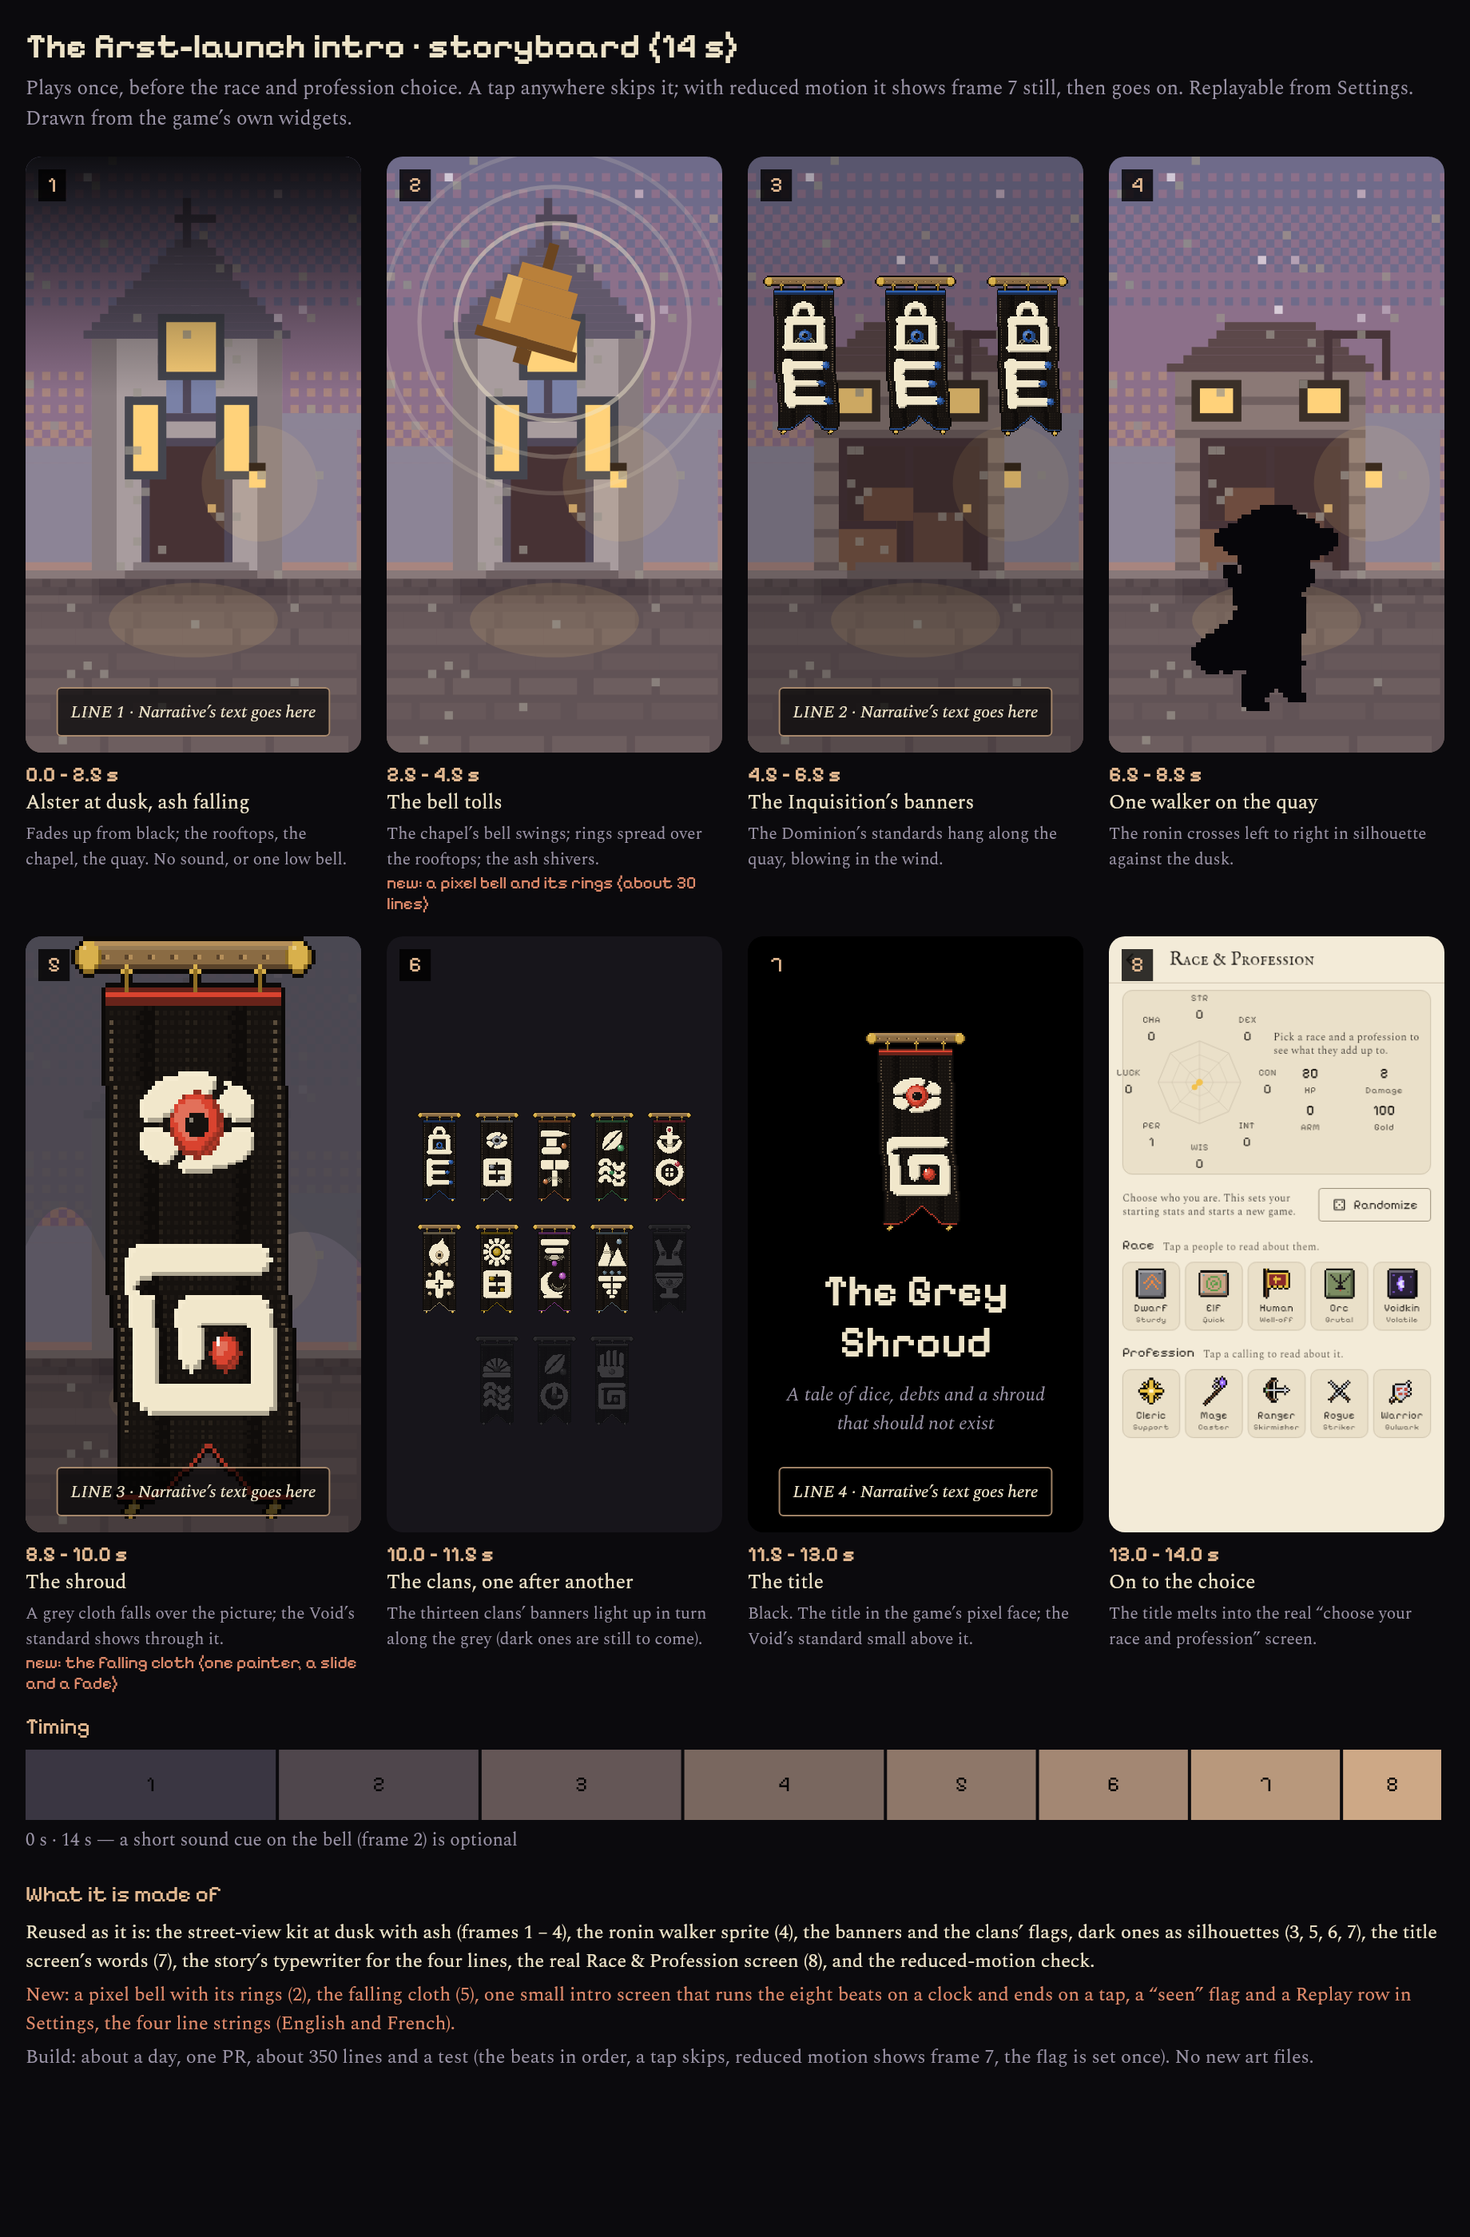
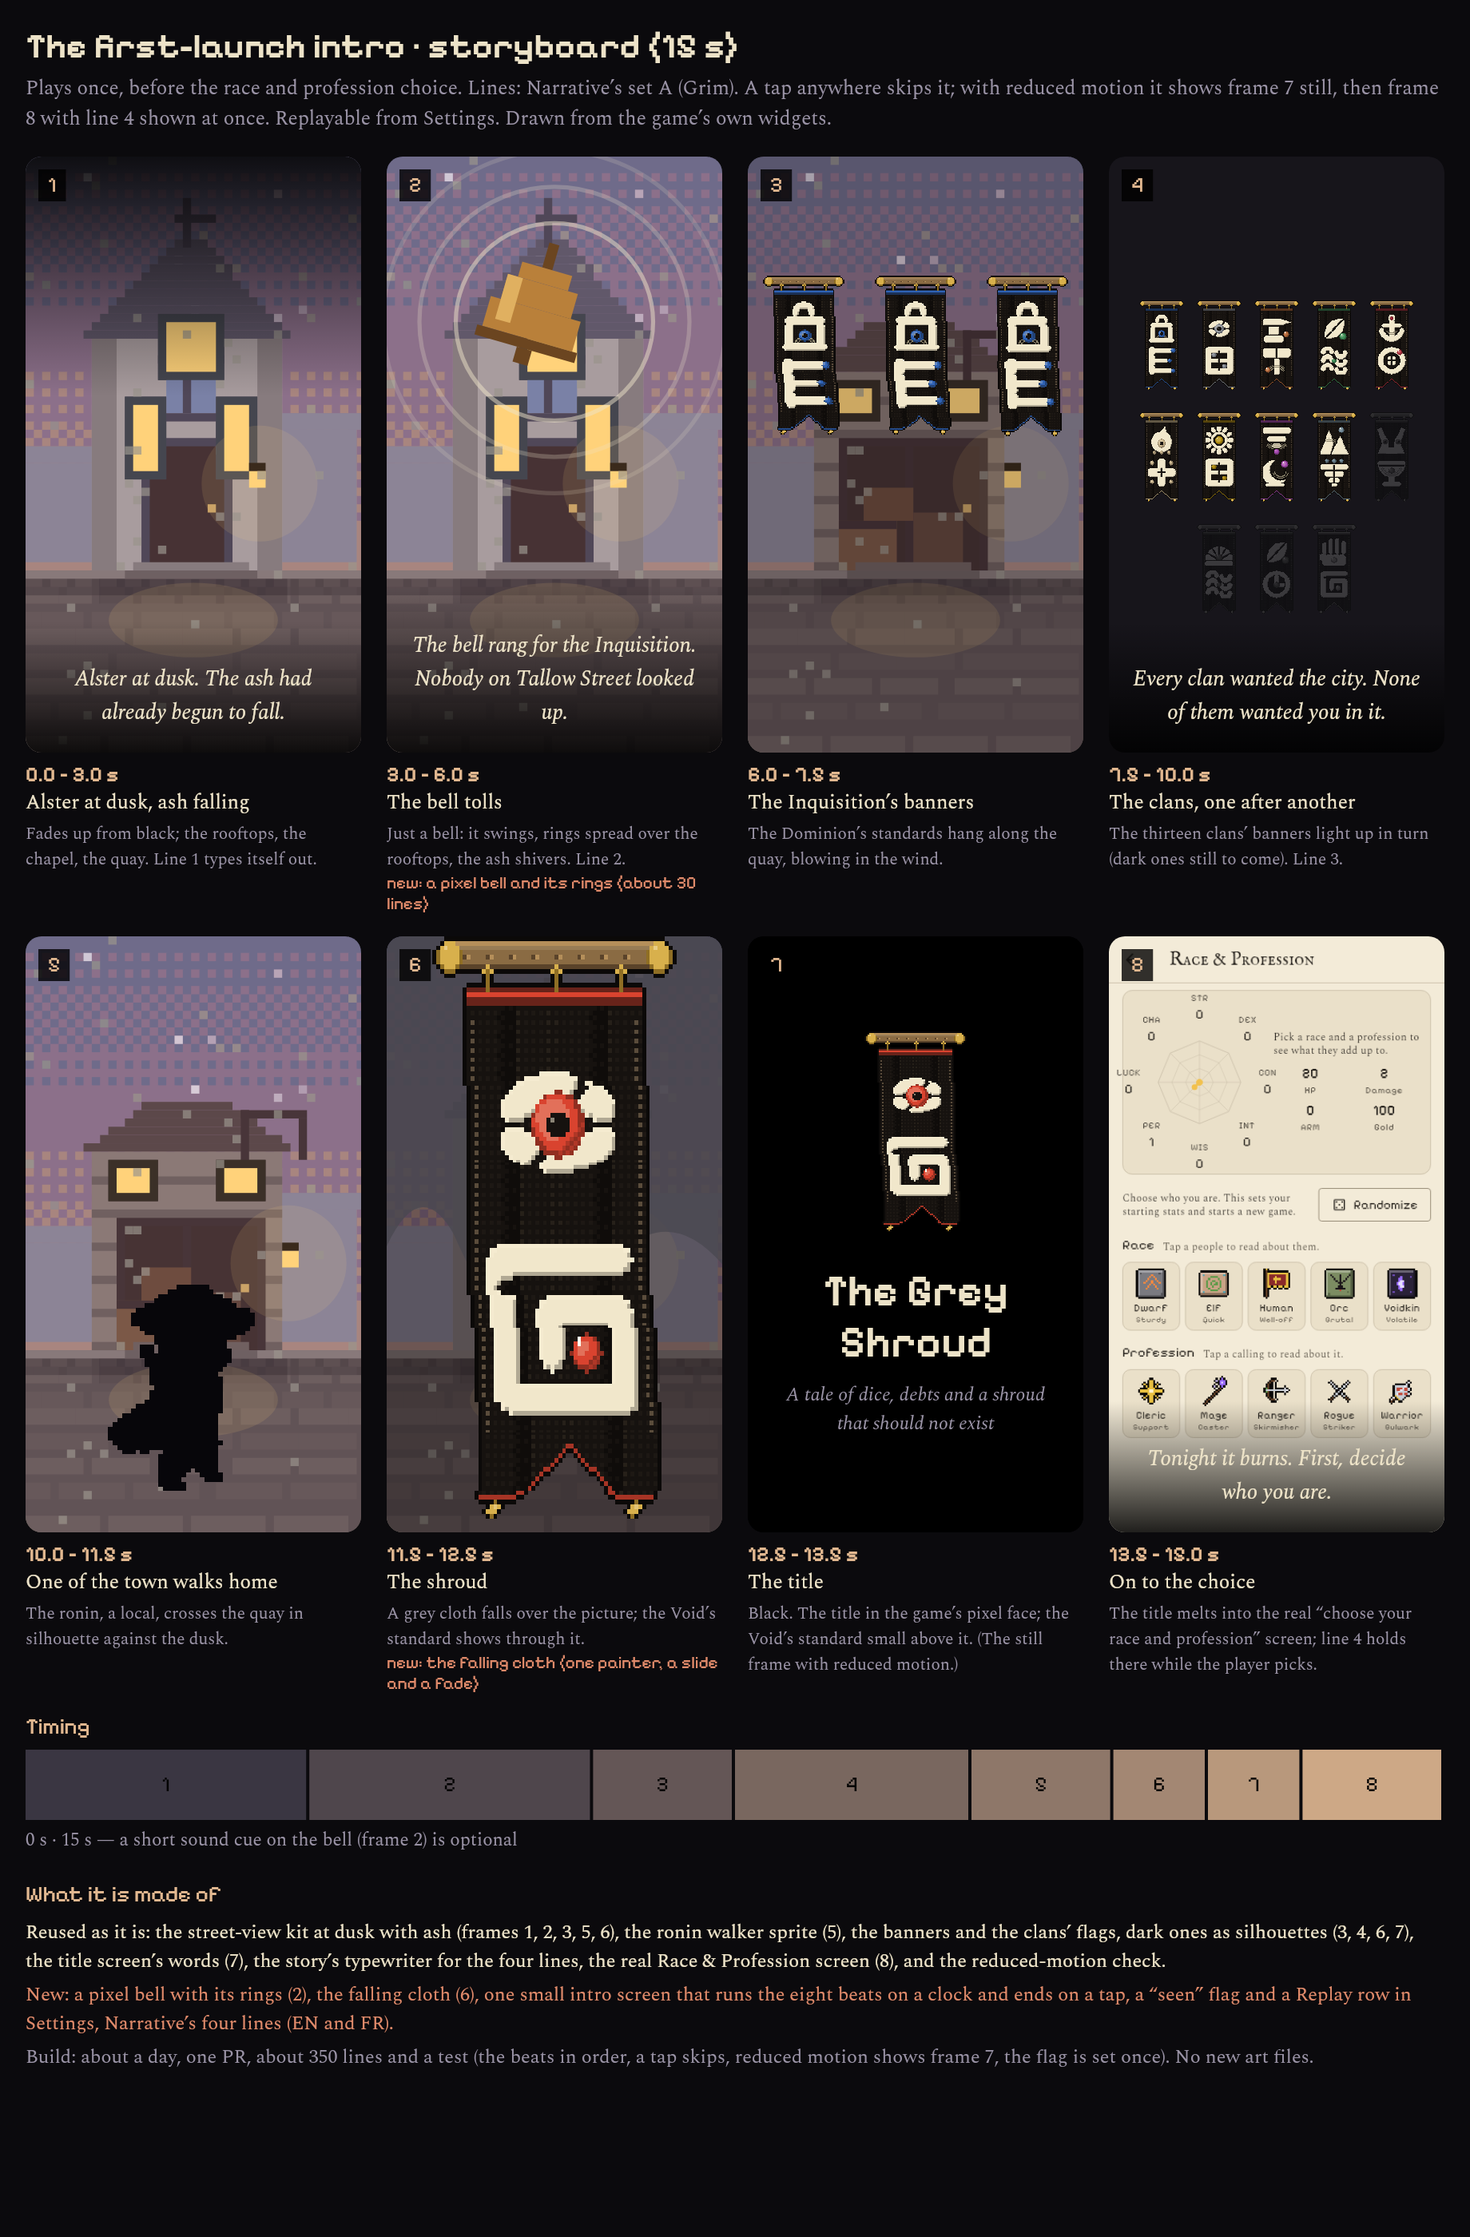
Intro storyboard: Narrative's set A lines, 15 s, retimed
Claude-Session: https://claude.ai/code/session_01Y8cU3zPWWudNpnZGCrkKEc

diff --git a/test/ux_intro_mock_test.dart b/test/ux_intro_mock_test.dart
@@ -83,28 +83,36 @@ TextStyle _serif(double size,
     TextStyle(
         fontFamily: 'Spectral', fontSize: size, color: color, fontStyle: style);
 
-/// The place for one of Narrative's lines: where it types itself out, over
-/// the picture, in the story's own text.
+/// One of Narrative's lines (set A, "Grim", English): where it types
+/// itself out over the picture, in the story's own text.
 class _LineSlot extends StatelessWidget {
-  const _LineSlot(this.n);
+  const _LineSlot(this.n, this.text);
   final int n;
+  final String text;
   @override
   Widget build(BuildContext context) => Align(
         alignment: Alignment.bottomCenter,
         child: Container(
-          margin: const EdgeInsets.all(10),
-          padding: const EdgeInsets.symmetric(horizontal: 8, vertical: 6),
-          decoration: BoxDecoration(
-            color: const Color(0xAA000000),
-            border: Border.all(color: _gold.withValues(alpha: 0.7)),
-            borderRadius: BorderRadius.circular(3),
-          ),
-          child: Text('LINE $n · Narrative’s text goes here',
+          width: double.infinity,
+          padding: const EdgeInsets.fromLTRB(14, 26, 14, 14),
+          decoration: const BoxDecoration(
+              gradient: LinearGradient(
+                  begin: Alignment.topCenter,
+                  end: Alignment.bottomCenter,
+                  colors: [Color(0x00000000), Color(0xDD000000)])),
+          child: Text(text,
               textAlign: TextAlign.center,
-              style: _serif(11, style: FontStyle.italic)),
+              style: _serif(13.5, style: FontStyle.italic)),
         ),
       );
 }
+
+const _lines = {
+  1: 'Alster at dusk. The ash had already begun to fall.',
+  2: 'The bell rang for the Inquisition. Nobody on Tallow Street looked up.',
+  3: 'Every clan wanted the city. None of them wanted you in it.',
+  4: 'Tonight it burns. First, decide who you are.',
+};
 
 class _Bell extends CustomPainter {
   const _Bell(this.swing);
@@ -221,7 +229,7 @@ Widget _frame(int n, _Beat b) => SizedBox(
             borderRadius: BorderRadius.circular(10),
             child: Stack(fit: StackFit.expand, children: [
               ColoredBox(color: Colors.black, child: b.scene),
-              if (b.line != null) _LineSlot(b.line!),
+              if (b.line != null) _LineSlot(b.line!, _lines[b.line!]!),
               Positioned(
                   left: 8,
                   top: 8,
@@ -321,9 +329,9 @@ void main() {
 
     final beats = <_Beat>[
       _Beat(
-          '0.0 – 2.5 s',
+          '0.0 – 3.0 s',
           'Alster at dusk, ash falling',
-          'Fades up from black; the rooftops, the chapel, the quay. No sound, or one low bell.',
+          'Fades up from black; the rooftops, the chapel, the quay. Line 1 types itself out.',
           Stack(fit: StackFit.expand, children: [
             _street('temple', 'The Inquisition chapel'),
             Align(
@@ -338,9 +346,9 @@ void main() {
           ]),
           line: 1),
       _Beat(
-          '2.5 – 4.5 s',
+          '3.0 – 6.0 s',
           'The bell tolls',
-          'The chapel’s bell swings; rings spread over the rooftops; the ash shivers.',
+          'Just a bell: it swings, rings spread over the rooftops, the ash shivers. Line 2.',
           Stack(fit: StackFit.expand, children: [
             _street('temple', 'The Inquisition chapel'),
             Align(
@@ -350,9 +358,10 @@ void main() {
                     height: 130,
                     child: CustomPaint(painter: const _Bell(0.28)))),
           ]),
+          line: 2,
           isNew: 'a pixel bell and its rings (about 30 lines)'),
       _Beat(
-          '4.5 – 6.5 s',
+          '6.0 – 7.5 s',
           'The Inquisition’s banners',
           'The Dominion’s standards hang along the quay, blowing in the wind.',
           Stack(fit: StackFit.expand, children: [
@@ -369,18 +378,33 @@ void main() {
                             scale: 2,
                             phase: i * 0.31),
                     ]))),
-          ]),
-          line: 2),
+          ])),
       _Beat(
-          '6.5 – 8.5 s',
-          'One walker on the quay',
-          'The ronin crosses left to right in silhouette against the dusk.',
+          '7.5 – 10.0 s',
+          'The clans, one after another',
+          'The thirteen clans’ banners light up in turn (dark ones still to come). Line 3.',
+          Container(
+              color: const Color(0xFF17151B),
+              padding: const EdgeInsets.fromLTRB(18, 90, 18, 120),
+              child: Wrap(
+                  alignment: WrapAlignment.center,
+                  spacing: 8,
+                  runSpacing: 14,
+                  children: [
+                    for (var i = 0; i < clanIds.length; i++)
+                      ClanFlag(factionId: clanIds[i], height: 56, found: i < 9),
+                  ])),
+          line: 3),
+      _Beat(
+          '10.0 – 11.5 s',
+          'One of the town walks home',
+          'The ronin, a local, crosses the quay in silhouette against the dusk.',
           Stack(fit: StackFit.expand, children: [
             _street('warehouse', 'The quay'),
             fill(CustomPaint(painter: const _Walker(18, 0.3))),
           ])),
       _Beat(
-          '8.5 – 10.0 s',
+          '11.5 – 12.5 s',
           'The shroud',
           'A grey cloth falls over the picture; the Void’s standard shows through it.',
           Stack(fit: StackFit.expand, children: [
@@ -390,27 +414,11 @@ void main() {
                 alignment: const Alignment(0, 0.05),
                 child: WindBanner(id: titleBannerId, scale: 3)),
           ]),
-          line: 3,
           isNew: 'the falling cloth (one painter, a slide and a fade)'),
       _Beat(
-          '10.0 – 11.5 s',
-          'The clans, one after another',
-          'The thirteen clans’ banners light up in turn along the grey (dark ones are still to come).',
-          Container(
-              color: const Color(0xFF17151B),
-              padding: const EdgeInsets.fromLTRB(18, 110, 18, 120),
-              child: Wrap(
-                  alignment: WrapAlignment.center,
-                  spacing: 8,
-                  runSpacing: 14,
-                  children: [
-                    for (var i = 0; i < clanIds.length; i++)
-                      ClanFlag(factionId: clanIds[i], height: 56, found: i < 9),
-                  ]))),
-      _Beat(
-          '11.5 – 13.0 s',
+          '12.5 – 13.5 s',
           'The title',
-          'Black. The title in the game’s pixel face; the Void’s standard small above it.',
+          'Black. The title in the game’s pixel face; the Void’s standard small above it. (The still frame with reduced motion.)',
           Container(
               color: Colors.black,
               child: Column(
@@ -429,22 +437,22 @@ void main() {
                             textAlign: TextAlign.center,
                             style: _serif(12,
                                 color: _ash, style: FontStyle.italic))),
-                  ])),
-          line: 4),
+                  ]))),
       _Beat(
-          '13.0 – 14.0 s',
+          '13.5 – 15.0 s',
           'On to the choice',
-          'The title melts into the real “choose your race and profession” screen.',
+          'The title melts into the real “choose your race and profession” screen; line 4 holds there while the player picks.',
           lastImage == null
               ? const ColoredBox(color: Color(0xFFF3EAD7))
               : RawImage(
                   image: lastImage,
                   fit: BoxFit.cover,
-                  alignment: Alignment.topCenter)),
+                  alignment: Alignment.topCenter),
+          line: 4),
     ];
 
     // The timeline under the frames: each beat to scale, the skip marker.
-    const spans = [2.5, 2.0, 2.0, 2.0, 1.5, 1.5, 1.5, 1.0];
+    const spans = [3.0, 3.0, 1.5, 2.5, 1.5, 1.0, 1.0, 1.5];
     final total = spans.fold<double>(0, (a, b) => a + b);
     const boardW = 4 * (_frameW + 16) + 16;
     final key = GlobalKey();
@@ -467,11 +475,11 @@ void main() {
             padding: const EdgeInsets.all(16),
             child:
                 Column(crossAxisAlignment: CrossAxisAlignment.start, children: [
-              Text('The first-launch intro · storyboard (14 s)',
+              Text('The first-launch intro · storyboard (15 s)',
                   style: _px(22, w: FontWeight.w600)),
               const SizedBox(height: 4),
               Text(
-                  'Plays once, before the race and profession choice. A tap anywhere skips it; with reduced motion it shows frame 7 still, then goes on. Replayable from Settings. Drawn from the game’s own widgets.',
+                  'Plays once, before the race and profession choice. Lines: Narrative\u2019s set A (Grim). A tap anywhere skips it; with reduced motion it shows frame 7 still, then frame 8 with line 4 shown at once. Replayable from Settings. Drawn from the game’s own widgets.',
                   style: _serif(12.5, color: _ash)),
               const SizedBox(height: 14),
               Wrap(spacing: 16, runSpacing: 14, children: [
@@ -505,9 +513,9 @@ void main() {
               Text('What it is made of', style: _px(14, color: _gold)),
               const SizedBox(height: 6),
               chip(
-                  'Reused as it is: the street-view kit at dusk with ash (frames 1 \u2013 4), the ronin walker sprite (4), the banners and the clans\u2019 flags, dark ones as silhouettes (3, 5, 6, 7), the title screen\u2019s words (7), the story\u2019s typewriter for the four lines, the real Race & Profession screen (8), and the reduced-motion check.'),
+                  'Reused as it is: the street-view kit at dusk with ash (frames 1, 2, 3, 5, 6), the ronin walker sprite (5), the banners and the clans\u2019 flags, dark ones as silhouettes (3, 4, 6, 7), the title screen\u2019s words (7), the story\u2019s typewriter for the four lines, the real Race & Profession screen (8), and the reduced-motion check.'),
               chip(
-                  'New: a pixel bell with its rings (2), the falling cloth (5), one small intro screen that runs the eight beats on a clock and ends on a tap, a \u201cseen\u201d flag and a Replay row in Settings, the four line strings (English and French).',
+                  'New: a pixel bell with its rings (2), the falling cloth (6), one small intro screen that runs the eight beats on a clock and ends on a tap, a \u201cseen\u201d flag and a Replay row in Settings, Narrative\u2019s four lines (EN and FR).',
                   c: const Color(0xFFE08A6A)),
               chip(
                   'Build: about a day, one PR, about 350 lines and a test (the beats in order, a tap skips, reduced motion shows frame 7, the flag is set once). No new art files.',

diff --git a/docs/proposals/intro-animation.md b/docs/proposals/intro-animation.md
@@ -5,24 +5,32 @@ Drawn by `test/ux_intro_mock_test.dart` from the game's own widgets; frame 8
 is the real Race & Profession screen.
 
 ## Brief
-Plays once, before the race and profession choice, 14 s. A tap anywhere
-skips to frame 8. Reduced motion shows frame 7 (the title) still, then goes on.
-No sound needed; one low bell on frame 2 is optional. Replayable from Settings.
+Plays once, before the race and profession choice, 15 s. A tap anywhere skips
+to frame 8. Reduced motion shows frame 7 (the title) still, then frame 8 with
+line 4 shown at once. No sound needed; one low bell on frame 2 is optional.
+Replayable from Settings.
 
-## Beats
-| # | Time | What |
-|---|---|---|
-| 1 | 0.0 to 2.5 s | Alster at dusk, ash falling; fades up from black. Line 1. |
-| 2 | 2.5 to 4.5 s | The chapel's bell tolls; rings spread; the ash shivers. |
-| 3 | 4.5 to 6.5 s | The Inquisition's banners along the quay. Line 2. |
-| 4 | 6.5 to 8.5 s | The ronin crosses the quay in silhouette. |
-| 5 | 8.5 to 10.0 s | A grey cloth falls; the Void's standard shows through. Line 3. |
-| 6 | 10.0 to 11.5 s | The thirteen clans' banners light up in turn. |
-| 7 | 11.5 to 13.0 s | The title in the pixel face, the Void's standard above. Line 4. |
-| 8 | 13.0 to 14.0 s | Melts into the Race & Profession screen. |
+## Beats (the user chose Narrative's set A, Grim)
+| # | Time | What | Line |
+|---|---|---|---|
+| 1 | 0.0 to 3.0 s | Alster at dusk, ash falling; fades up from black | 1 |
+| 2 | 3.0 to 6.0 s | Just a bell: it swings, rings spread over the rooftops | 2 |
+| 3 | 6.0 to 7.5 s | The Inquisition's banners along the quay | |
+| 4 | 7.5 to 10.0 s | The thirteen clans' banners light up in turn | 3 |
+| 5 | 10.0 to 11.5 s | The ronin, a local, crosses the quay in silhouette | |
+| 6 | 11.5 to 12.5 s | A grey cloth falls; the Void's standard shows through | |
+| 7 | 12.5 to 13.5 s | The title in the pixel face | |
+| 8 | 13.5 to 15.0 s | Melts into the Race & Profession screen; line 4 holds | 4 |
 
-The four lines are Narrative's: each sits in a slot at the bottom of its frame
-and types itself out (`StoryText`). The mock shows a placeholder box.
+Lines (EN; FR in `docs/proposals/intro-lines.md` on `claude/narrative-intro`):
+1. Alster at dusk. The ash had already begun to fall.
+2. The bell rang for the Inquisition. Nobody on Tallow Street looked up.
+3. Every clan wanted the city. None of them wanted you in it.
+4. Tonight it burns. First, decide who you are.
+
+Each line sits over the bottom of its frame and types itself out (`StoryText`).
+The hero is a local, so nothing shows a stranger arriving, and the bell is just
+a bell (not a named tower).
 
 ## Reused as it is
 - `StreetViewScene` (street-view kit) at dusk with ash: frames 1 to 5 backdrops
@@ -39,7 +47,7 @@ and types itself out (`StoryText`). The mock shows a placeholder box.
   jump to the end
 - a `intro_seen` flag (shared preferences), set when it ends or is skipped, and
   a "Replay the intro" row in Settings
-- four line strings (EN and FR) and the Settings label, next to `menu_title`
+- the four line strings (EN and FR, Narrative's) and the Settings label, next to `menu_title`
 
 ## Where it plugs in
 `MainMenuScreen._newGame`: when `intro_seen` is not set, push `IntroScreen`
@@ -56,4 +64,3 @@ and `app_strings.dart` (UX owns the widget, Narrative owns the four lines).
 ## Open
 - The intro plays on the first New Game tap, not at app start (there is
   nothing to skip to before then). Say if it should play at app start instead.
-- Narrative's four lines (asked by the manager).
